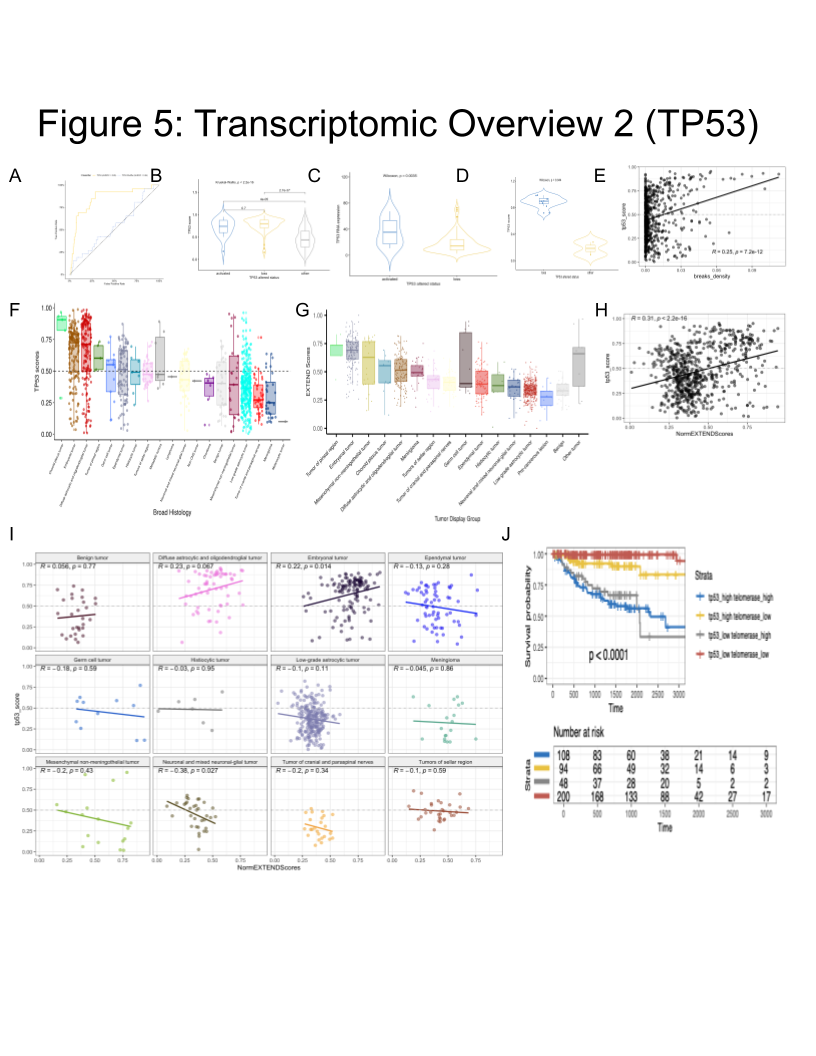
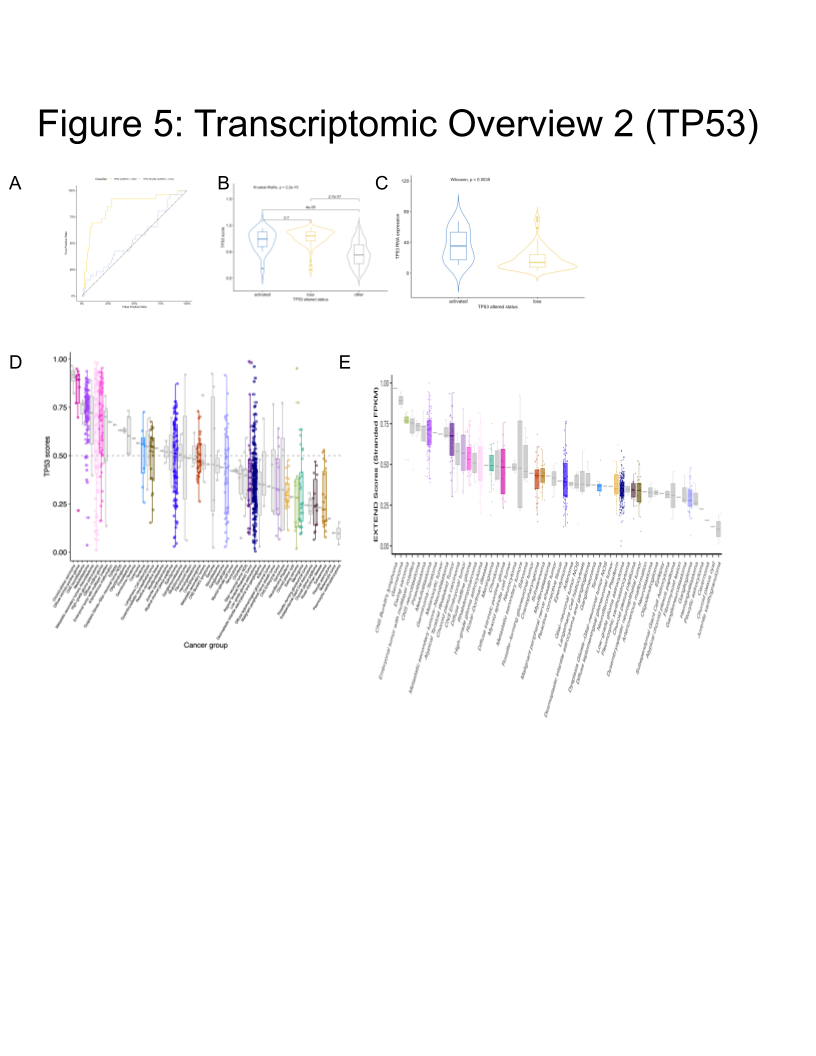
respond to @sjspielman review
- also add new figure 5 without panel D

diff --git a/content/03.results.md b/content/03.results.md
@@ -9,9 +9,6 @@ We maintained a data release folder on Amazon S3 containing merged files for eac
 
 Stub for the process for contributing analytical code (**Figure {@fig:FigS1}** and **STAR Methods**) and to the manuscript.
 
-#### Generation of consensus SNV and CNV calls
-Also add a quick note about consensus SNV and CNV to reference **Figure {@fig:FigS2}A-F** here.
-
 ![**Figure 1. Overview of the OpenPBTA Project.** ](images/main/Figure1.png){#fig:Fig1}
 <!-- TODO: Add figure 1 description. -->
 
@@ -169,7 +166,8 @@ We also found evidence of chromothripsis in over 15% of embryonal tumors, ependy
 
 UMAP visualization of gene expression variation across brain tumors (**Figure {@fig:Fig4}A**) shows the expected clustering of brain tumors by histology.
 We observed medulloblastomas cluster by molecular subtype with WNT and SHH in distinct clusters and Groups 3 and 4 showing some overlap (**Figure {@fig:FigS5}A**), as expected.
-Additionally, _C11orf95::RELA_ fusion positive ependymomas formed distinct clusters (**Figure {@fig:FigS5}B**).
+Of note, two samples annotated as the SHH subtype do not cluster with the MB samples and one clusters with Group 3 and 4 samples, suggesting potential subtype misclassification or different underlying biology of these tumors.
+Additionally, except for three outliers, _C11orf95::RELA_ (_ZFTA::RELA_) fusion positive ependymomas fall within distinct clusters (**Figure {@fig:FigS5}B**).
 _BRAF_-driven low-grade gliomas (**Figure {@fig:FigS5}C**) were present in three separate clusters, suggesting that there might be distinct underlying biology within these tumors.
 Histone H3 G35-mutant HGATs generally clustered together, away from K28-mutant tumors (**Figure {@fig:FigS5}D**).
 Interestingly, although H3 K28-mutant tumors have different biological drivers than H3 wildtype tumors, they did not form distinct clusters, suggesting they may either be driven by common transcriptional programs or our sample size is too small to detect transcriptional differences.
@@ -185,22 +183,19 @@ Points are colored by `cancer_group` of the samples they represent. B, Heatmap o
 #### Prediction of _TP53_ oncogenicity and telomerase activity
 To understand the _TP53_ phenotype in each tumor, we ran a classifier previously trained on TCGA [@doi:10.1016/j.celrep.2018.03.076] to infer _TP53_ inactivation status.
 Using high-confidence SNVs, CNVs, SVs, and fusions in _TP53_ as true positive alterations, we achieved a high accuracy (AUROC = 0.85) for rRNA-depleted, stranded samples compared to randomly shuffled _TP53_ scores (**Figure {@fig:Fig5}A**). 
-The classifier did not perform well on the poly-A samples (**Figure {@fig:FigS5}E-F**), potentially due to the low number of _TP53_ altered (N = 7) and/or total poly-A samples in our dataset (N = 58) rather than library type, as a previous study demonstrated high accuracy of this classifier on another poly-A dataset [@doi:10.1016/j.celrep.2019.09.071].
+The classifier did not perform well on the poly-A samples (**Figure {@fig:FigS5}E-F**), potentially due to the low number of _TP53_ altered (N = 29) and/or total poly-A samples in our dataset (N = 58) rather than library type, as a previous study demonstrated high accuracy of this classifier on another poly-A dataset [@doi:10.1016/j.celrep.2019.09.071].
 We annotated _TP53_ alterations as "activated" if samples harbored one of p.R273C or p.R248W mutations [@doi:10.1038/ng0593-42], "loss" if the patient had a Li Fraumeni Syndrome (LFS) predisposition diagnosis or if any other SNV, CNV, SV, or fusion fell within a functional domain.
 If the _TP53_ mutation did not reside within the DNA-binding domain or if an alteration was not detected in _TP53_, we annotated the tumor as "other".
 Interestingly, we observed that samples annotated as either "activated" or "loss" had significantly higher _TP53_ scores than those annotated as "other" (**Figure {@fig:Fig5}B**, p<sub>adj</sub> loss vs. other < 2e-16, p<sub>adj</sub> activated vs. other = 4.0e-5), suggesting that the classifier detects an oncogenic, or altered, _TP53_ phenotype (scores > 0.5) rather than solely _TP53_ inactivation, as interpreted previously [@doi:10.1016/j.celrep.2018.03.076].
 Moreover, tumors with "activating" _TP53_ mutations had evidence of higher _TP53_ expression than those with _TP53_ "loss" mutations (Wilcoxon p = 3.5e-3, **Figure {@fig:Fig5}C**.
-To further validate the classifier's accuracy, we plotted _TP53_ scores for patients with LFS **Figure {@fig:Fig5}C**, hypothesizing all of these tumors would have high scores.
-Indeed, we observed significantly higher scores (Wilcoxon p = 4.4e-2) in LFS tumors for which we detected high-confidence _TP53_ somatic alterations. 
-Of note, we were unable to detect canonical somatic _TP53_ mutations in two LFS patient tumors, annotated as "other" in **Figure {@fig:Fig5}D**.
-We confirmed the LFS diagnosis from pathology reports and found each to have a germline variant in _TP53_, however, the tumor purity of these samples was low (16% and 37%), suggesting the classifier requires a certain level of tumor purity to achieve good performance, as we expect _TP53_ to be intact in normal cells.
-Additionally, we found a significant positive correlation between _TP53_ scores and CNV breakpoint density (**Figure {@fig:Fig5}E**), consistent with a previous report [@doi:10.1016/j.celrep.2019.09.071].
-Tumors with the highest median _TP53_ scores were those known to harbor somatic _TP53_ alterations: choroid plexus tumors, embryonal tumors, HGATs, and pineal tumors (**Figure {@fig:Fig5}F**), while melanocytic tumors, meningiomas, and tumors of cranial and paraspinal nerves had the lowest scores.
-
+To further validate the classifier's accuracy, we asssessed _TP53_ scores for patients with LFS, hypothesizing all of these tumors would have high scores.
+Indeed, we observed higher scores in LFS tumors (N = 8) for which we detected high-confidence _TP53_ somatic alterations. 
+Although we were unable to detect canonical somatic _TP53_ mutations in two LFS patient tumors with low _TP53_ scores, we confirmed the LFS diagnosis from pathology reports and found each to have a germline variant in _TP53_.
+The tumor purity of these samples was low (16% and 37%), suggesting the classifier requires a certain level of tumor purity to achieve good performance, as we expect _TP53_ to be intact in normal cells.
+Tumors with the highest median _TP53_ scores were those known to harbor somatic _TP53_ alterations: choroid plexus tumors, embryonal tumors, HGATs, and pineal tumors (**Figure {@fig:Fig5}E**), while melanocytic tumors, meningiomas, and tumors of cranial and paraspinal nerves had the lowest scores.
+	
 We next used gene expression data to predict telomerase activity using EXpression-based Telomerase ENzymatic activity Detection (EXTEND) [@doi:10.1038/s41467-020-20474-9] as a surrogate measure of malignant potential [@doi:10.1038/s41467-020-20474-9; 10.1093/carcin/bgp268].
-EXTEND scores significantly correlated with _TERT_ and _TERC_ expression (**Figure {@fig:FigS5}G-H**).  
+EXTEND scores significantly correlated with _TERT_ (R = 0.55) and _TERC_ (R = 0.58) expression (**Figure {@fig:FigS5}G-H**).  
 We found aggressive tumors such as CNS lymphoma, ETMR, ATRT, DMG, and HGG had high EXTEND scores (**Figure {@fig:Fig5}G**), while benign lesions such as teratomas, dysplasias, and hemangioblastomas had the lowest scores (**Table S3**).
 
-<!-- TODO: Add link to S3 once generated. -->
-
-![**Figure 5. _TP53_ and telomerase activity** A, Receiver Operating Characteristic for _TP53_ classifier run on FPKM of stranded RNA-Seq samples. B, Violin and box plots of _TP53_ scores plotted by _TP53_ alteration type. C, Violin and box plots of _TP53_ RNA expression plotted by _TP53_ activation status. D, Violin and box plots of _TP53_ scores in Li Fraumeni patient tumors. E, _TP53_ scores significantly correlate with CNV breakpoint density across PBTA tumors (Pearson R = 0.25, p = 7.5e-12). F, Box plots of _TP53_ scores grouped by `broad_histology`. G, Box plots of EXTEND scores grouped by `broad_histology`. H, _TP53_ scores significantly correlate with EXTEND scores across PBTA tumors (Pearson R = 0.31, p <2.2e-16). I, Histology-specific Pearson correlations between _TP53_ and EXTEND scores. J, Kaplan-Meier](images/main/Figure5.png){#fig:Fig5}
+![**Figure 5. _TP53_ and telomerase activity** A, Receiver Operating Characteristic for _TP53_ classifier run on FPKM of stranded RNA-Seq samples. B, Violin and box plots of _TP53_ scores plotted by _TP53_ alteration type. C, Violin and box plots of _TP53_ RNA expression plotted by _TP53_ activation status. D, Box plots of _TP53_ scores grouped by `broad_histology`. E, Box plots of EXTEND scores grouped by `broad_histology`.](images/main/Figure5.png){#fig:Fig5}
